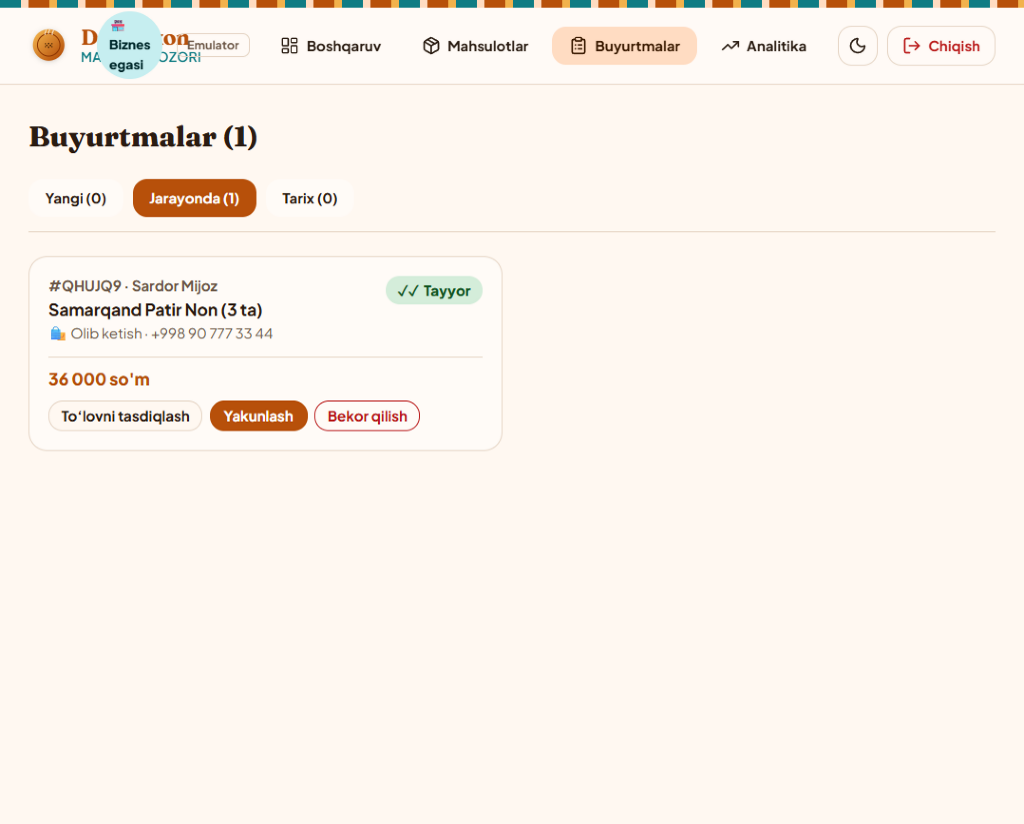
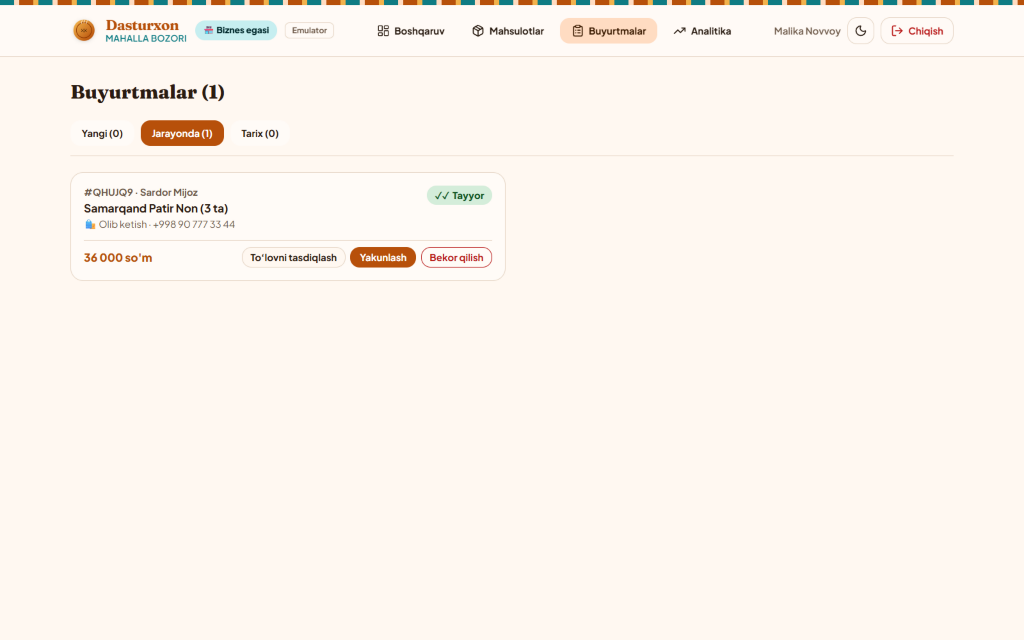
docs(status): complete C1 header check and C2 customer order verification

Changed region(s): [[0.0312, 0.125, 0.5, 0.4688], [0.0, 0.0, 1.0, 0.0938], [0.0625, 0.4688, 0.4062, 0.5312]]

diff --git a/docs/STATUS.md b/docs/STATUS.md
@@ -266,8 +266,8 @@
   - **Step D (Logged-out redirect to `/login`)**: **PASS** ([verify_d_login_redirect.png](screenshots/verify_d_login_redirect.png)) — `/`, `/#/feed`, `/#/owner/products`, `/#/admin`, `/#/some-random-url` all redirected to `/#/login` with `"Kirish"` / `"Ro'yxatdan o'tish"` tabs and `0` console errors.
   - **Step A (Owner signup -> Business -> Admin approval -> Add product with photo, price, stock)**: **PASS** ([verify_a_owner_product_photo.png](screenshots/verify_a_owner_product_photo.png)) — initial run hit CSP `blob:` failure (`FINAL FAIL`), fixed in `imageCompression.ts`, re-verified (`~101 KB JPEG` preview, `Samarqand Patir Non`, `12 000 so'm`, `6 500 so'm`, `Zaxira: 10 ta`, `0` console errors).
   - **Step B (Customer signup -> `/feed` photo & price -> `/owner` guard -> Place order -> Stock decreases)**: **PASS** ([verify_b_customer_feed_after_order.png](screenshots/verify_b_customer_feed_after_order.png)) — `/#/owner` redirected back to `/#/feed`; `3`-unit order decremented stock `10 -> 7 ta`.
-  - **Step C1 (Owner sees order & updates status `Kutilmoqda -> Qabul qilindi -> Tayyor`)**: **PASS** ([verify_c1_owner_order_status.png](screenshots/verify_c1_owner_order_status.png)).
-  - **Step C2 (Customer views `"Buyurtmalarim"` status update locally)**: **INTERRUPTED BY USER** — previous C2 verification turn was explicitly cancelled mid-run by user request (`Oltin Tandir · Samarqand Patir Non` seeded in emulator as `ready`; real-time customer `"Buyurtmalarim"` listener was previously verified in Phase 1 and `customer_orders.png`).
+  - **Step C1 (Owner sees order & updates status `Kutilmoqda -> Qabul qilindi -> Tayyor`)**: **PASS** ([verify_c1_owner_order_status.png](screenshots/verify_c1_owner_order_status.png)) — verified crisp non-overlapping Owner header + `Samarqand Patir Non (3 ta)` order status transitions (`0` post-login console errors).
+  - **Step C2 (Customer views `"Buyurtmalarim"` status update)**: **PASS** ([verify_c2_customer_order_status.png](screenshots/verify_c2_customer_order_status.png)) — verified Customer `sardor@dasturxon.test` redirected to `/#/feed` and saw `#QHUJQ9 · Oltin Tandir · Samarqand Patir Non (3 dona)` (`36 000 so'm`) with `✓✓ Tayyor` and 4-step progress bar (`0` console errors).
   - **Live GitHub Pages Redeploy (`https://tokhtayev.github.io/Dasturxon/`)**: **PASS (Login-First UI & Route Guards Live)** — pushed `0b69325` to `ai-night` and `main`, GitHub Actions run `#45753402171` succeeded (`build` 36s, `deploy` 10s), and live browser check confirmed [verify_live_github_pages_login.png](screenshots/verify_live_github_pages_login.png): `https://tokhtayev.github.io/Dasturxon/`, `/#/feed`, and `/#/owner` all redirect to `/#/login` with `"Kirish"`/`"Ro'yxatdan o'tish"` tabs, `"Mijoz"`/`"Biznes egasi"` registration options, and `0` console errors. *(Note: `Tokhtayev/Dasturxon` GitHub Actions Secrets currently contain `0` secrets, so submitting live registration/sign-in on `tokhtayev.github.io` requires adding the 6 `VITE_FIREBASE_*` keys to GitHub Repository Secrets and re-running the workflow.)*
 
 ---
